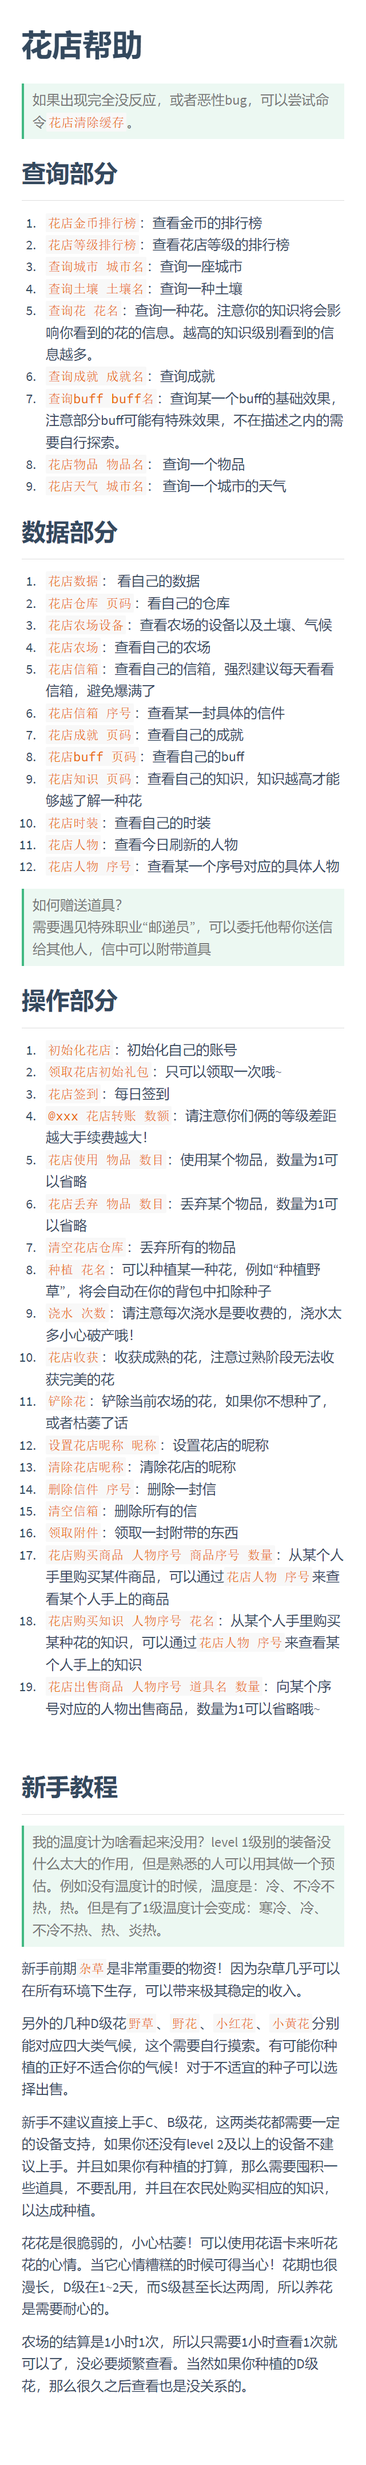
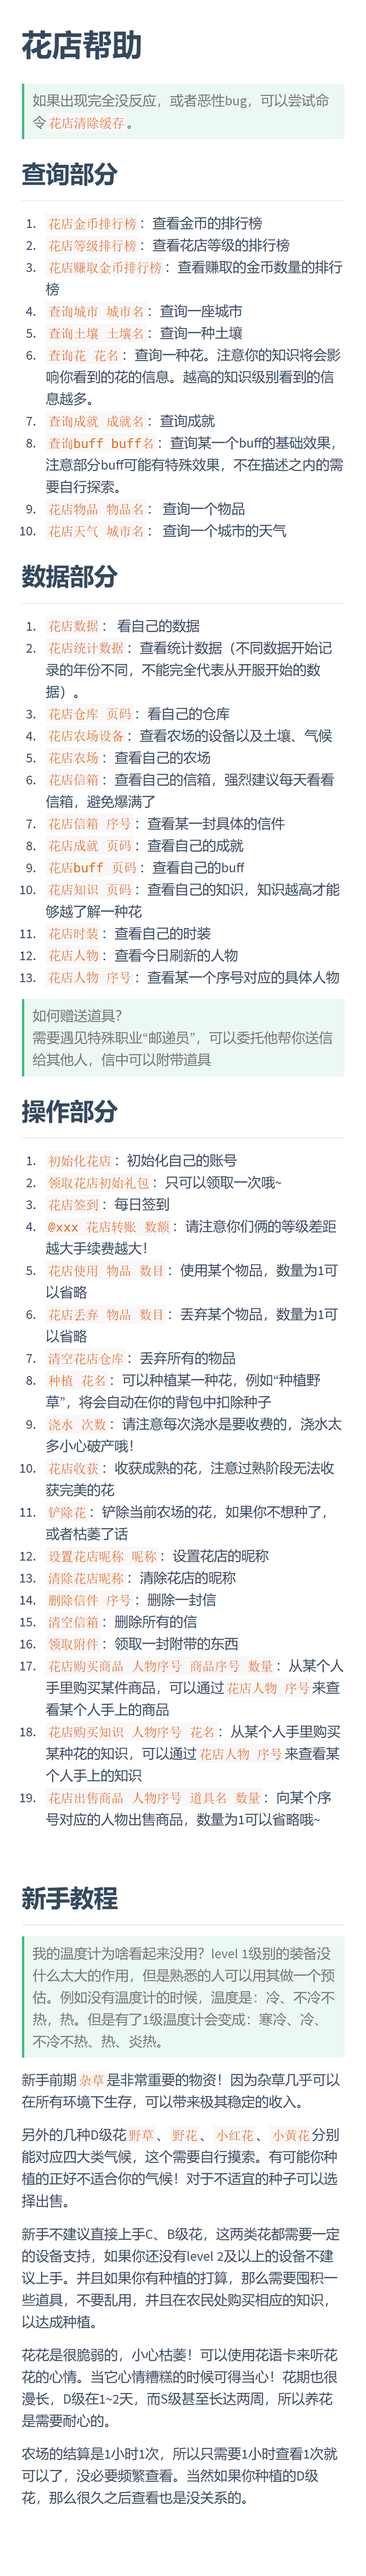
更新帮助 & 显示统计信息

Changed region(s): [[0.0625, 0.0, 0.9375, 0.9949], [0.75, 0.0311, 0.875, 0.0622]]

diff --git a/flower.py b/flower.py
@@ -4436,6 +4436,7 @@ class FlowerService:
         reply += '\n收获完美植物：%d次' % plant_times
         reply += '\n抽卡次数：%d次' % user_statistics.draw_times
         reply += '\n抽到物品次数：%d次' % user_statistics.success_draw_times
+        reply += '\n抽完所有物品：%d次' % user_statistics.all_draw_times
         return reply
 
 

diff --git a/doc/帮助.md b/doc/帮助.md
@@ -6,28 +6,30 @@
 
 1. `花店金币排行榜`：查看金币的排行榜
 2. `花店等级排行榜`：查看花店等级的排行榜
-3. `查询城市 城市名`：查询一座城市
-4. `查询土壤 土壤名`：查询一种土壤
-5. `查询花 花名`：查询一种花。注意你的知识将会影响你看到的花的信息。越高的知识级别看到的信息越多。
-6. `查询成就 成就名`：查询成就
-7. `查询buff buff名`：查询某一个buff的基础效果，注意部分buff可能有特殊效果，不在描述之内的需要自行探索。
-8. `花店物品 物品名`： 查询一个物品
-9. `花店天气 城市名`： 查询一个城市的天气
+3. `花店赚取金币排行榜`：查看赚取的金币数量的排行榜
+4. `查询城市 城市名`：查询一座城市
+5. `查询土壤 土壤名`：查询一种土壤
+6. `查询花 花名`：查询一种花。注意你的知识将会影响你看到的花的信息。越高的知识级别看到的信息越多。
+7. `查询成就 成就名`：查询成就
+8. `查询buff buff名`：查询某一个buff的基础效果，注意部分buff可能有特殊效果，不在描述之内的需要自行探索。
+9. `花店物品 物品名`： 查询一个物品
+10. `花店天气 城市名`： 查询一个城市的天气
 
 ## 数据部分
 
 1. `花店数据`： 看自己的数据
-2. `花店仓库 页码`：看自己的仓库
-3. `花店农场设备`：查看农场的设备以及土壤、气候
-4. `花店农场`：查看自己的农场
-5. `花店信箱`：查看自己的信箱，强烈建议每天看看信箱，避免爆满了
-6. `花店信箱 序号`：查看某一封具体的信件
-7. `花店成就 页码`：查看自己的成就
-8. `花店buff 页码`：查看自己的buff
-9. `花店知识 页码`：查看自己的知识，知识越高才能够越了解一种花
-10. `花店时装`：查看自己的时装
-11. `花店人物`：查看今日刷新的人物
-12. `花店人物 序号`：查看某一个序号对应的具体人物
+2. `花店统计数据`：查看统计数据（不同数据开始记录的年份不同，不能完全代表从开服开始的数据）。
+3. `花店仓库 页码`：看自己的仓库
+4. `花店农场设备`：查看农场的设备以及土壤、气候
+5. `花店农场`：查看自己的农场
+6. `花店信箱`：查看自己的信箱，强烈建议每天看看信箱，避免爆满了
+7. `花店信箱 序号`：查看某一封具体的信件
+8. `花店成就 页码`：查看自己的成就
+9. `花店buff 页码`：查看自己的buff
+10. `花店知识 页码`：查看自己的知识，知识越高才能够越了解一种花
+11. `花店时装`：查看自己的时装
+12. `花店人物`：查看今日刷新的人物
+13. `花店人物 序号`：查看某一个序号对应的具体人物
 
 > 如何赠送道具？
 > 需要遇见特殊职业“邮递员”，可以委托他帮你送信给其他人，信中可以附带道具
